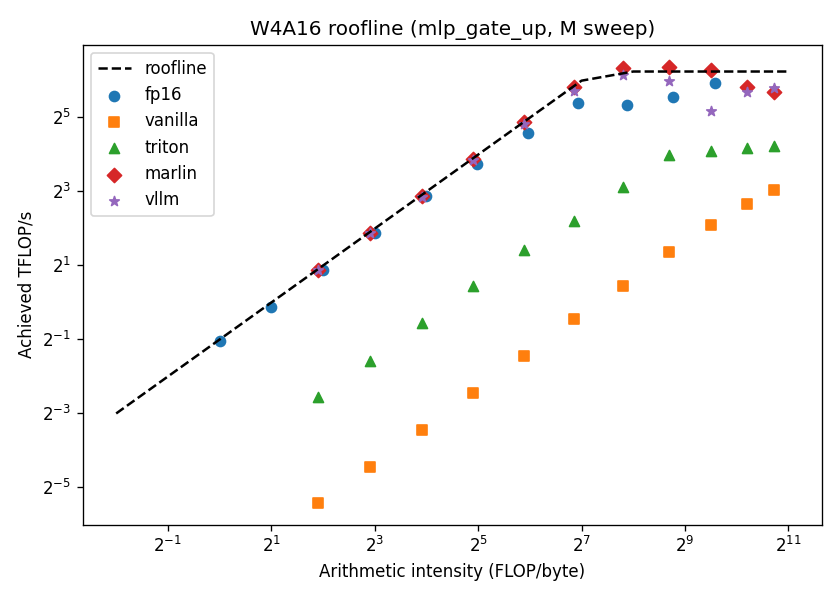
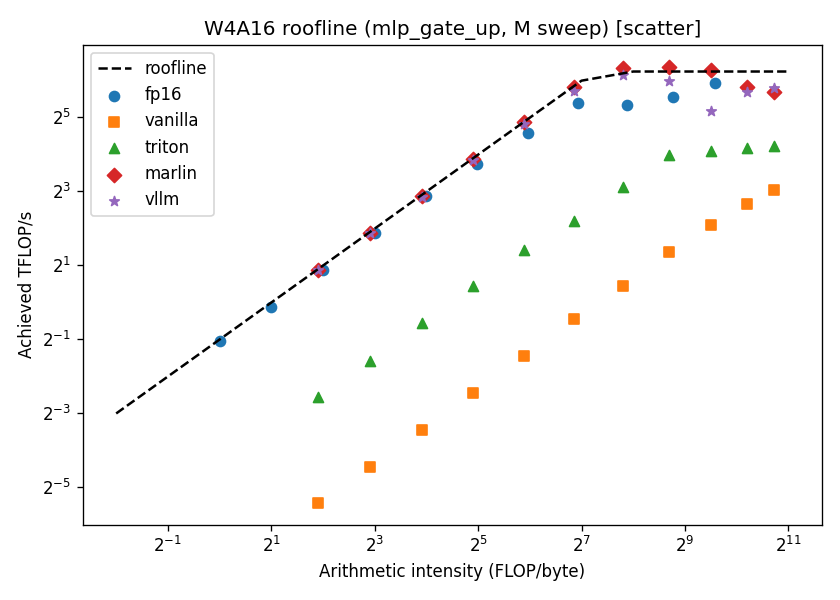
experiment 2 done

Changed region(s): [[0.2476, 0.03, 0.8357, 0.06]]

diff --git a/experiment4.py b/experiment4.py
@@ -11,13 +11,17 @@ import awq_impl
 import kernel
 
 parser = argparse.ArgumentParser()
-src = parser.add_mutually_exclusive_group(required=True)
+src = parser.add_mutually_exclusive_group(required=False)
 src.add_argument("--model", help="HF model id (its config sets the layer shapes).")
 src.add_argument("--weight_path", help="Quant checkpoint (.pt); its model_id sets the shapes.")
 parser.add_argument("--result_dir", default="results")
 parser.add_argument("--group_size", type=int, default=128)
 parser.add_argument("--m_sweep", default="1,2,4,8,16,32,64,128,256,512,1024")
 parser.add_argument("--plot", action="store_true", help="Emit roofline.png if matplotlib is available.")
+parser.add_argument("--plot_mode", choices=["scatter", "line"], default="scatter",
+                    help="scatter: one dot per M (default); line: connect M-sweep points, color per kernel.")
+parser.add_argument("--plot_only", action="store_true",
+                    help="Load existing exp4.json and plot without running the experiment.")
 args = parser.parse_args()
 
 os.makedirs(args.result_dir, exist_ok=True)
@@ -167,7 +171,7 @@ def ridge_crossing(roofline, peak_tflops, peak_bw):
     return {"ridge_intensity_flop_per_byte": ridge_intensity, "first_compute_bound_M": crossings}
 
 
-def plot_roofline(results, path):
+def plot_roofline(results, path, mode="scatter"):
     import matplotlib
     matplotlib.use("Agg")
     import matplotlib.pyplot as plt
@@ -178,16 +182,25 @@ def plot_roofline(results, path):
     xs = [2 ** i for i in range(-2, 12)]
     ax.plot(xs, [min(peak_tflops, peak_bw * x / 1e3) for x in xs], "k--", label="roofline")
     markers = {"fp16": "o", "vanilla": "s", "triton": "^", "marlin": "D", "vllm": "*"}
+    colors = {"fp16": "C0", "vanilla": "C1", "triton": "C2", "marlin": "C3", "vllm": "C4"}
     for kname in markers:
-        pts = [(r["intensity"], r["tflops"]) for r in results["gemm_roofline"]
-               if r["kernel"] == kname and r["shape"] == "mlp_gate_up"]
-        if pts:
-            ax.scatter(*zip(*pts), marker=markers[kname], label=kname)
+        pts = sorted(
+            [(r["intensity"], r["tflops"]) for r in results["gemm_roofline"]
+             if r["kernel"] == kname and r["shape"] == "mlp_gate_up"],
+            key=lambda p: p[0],
+        )
+        if not pts:
+            continue
+        xs_k, ys_k = zip(*pts)
+        if mode == "line":
+            ax.plot(xs_k, ys_k, marker="o", markersize=4, color=colors[kname], label=kname)
+        else:
+            ax.scatter(xs_k, ys_k, marker=markers[kname], color=colors[kname], label=kname)
     ax.set_xscale("log", base=2)
     ax.set_yscale("log", base=2)
     ax.set_xlabel("Arithmetic intensity (FLOP/byte)")
     ax.set_ylabel("Achieved TFLOP/s")
-    ax.set_title("W4A16 roofline (mlp_gate_up, M sweep)")
+    ax.set_title(f"W4A16 roofline (mlp_gate_up, M sweep) [{mode}]")
     ax.legend()
     fig.tight_layout()
     fig.savefig(path, dpi=120)
@@ -195,6 +208,18 @@ def plot_roofline(results, path):
 
 
 def main():
+    plot_path = os.path.join(args.result_dir, "roofline.png")
+
+    if args.plot_only:
+        in_path = os.path.join(args.result_dir, "exp4.json")
+        with open(in_path) as f:
+            results = json.load(f)
+        plot_roofline(results, plot_path, args.plot_mode)
+        return
+
+    if args.model is None and args.weight_path is None:
+        parser.error("--model or --weight_path is required unless --plot_only is set")
+
     model_id = args.model or torch.load(args.weight_path, map_location="cpu", weights_only=True)["model_id"]
     config = AutoConfig.from_pretrained(model_id)
     shapes = layer_shapes(config)
@@ -224,7 +249,7 @@ def main():
 
     if args.plot:
         try:
-            plot_roofline(results, os.path.join(args.result_dir, "roofline.png"))
+            plot_roofline(results, plot_path, args.plot_mode)
         except ImportError:
             print("matplotlib not available; skipping plot")
 

diff --git a/experiment2.py b/experiment2.py
@@ -17,6 +17,7 @@ parser.add_argument("--prompt_len", type=int, default=512)
 parser.add_argument("--decode_tokens", type=int, default=64)
 parser.add_argument("--batch_sweep", default="1,4,16,32")
 parser.add_argument("--skip_baseline", action="store_true", help="Skip the FP16 model (saves ~16GB).")
+parser.add_argument("--vllm_model", default=None, help="HF AWQ model id for vLLM reference ceiling (optional).")
 args = parser.parse_args()
 
 os.makedirs(args.result_dir, exist_ok=True)
@@ -64,6 +65,26 @@ def measure_prefill_decode(model, tokenizer, batch_size, prompt_len, decode_toke
         "decode_s_per_step": per_step_s,
         "decode_tok_per_s": batch_size / per_step_s,
     }
+
+
+def measure_vllm_decode(vllm_model, batch_sizes, decode_tokens):
+    from vllm import LLM, SamplingParams
+    llm = LLM(model=vllm_model, quantization="awq_marlin", dtype="float16", gpu_memory_utilization=0.9)
+    params = SamplingParams(temperature=0, max_tokens=decode_tokens)
+    rows = []
+    for bs in batch_sizes:
+        prompts = ["The quick brown fox jumps over the lazy dog."] * bs
+        llm.generate(prompts, params)  # warmup
+        torch.cuda.synchronize()
+        t0 = time.perf_counter()
+        outputs = llm.generate(prompts, params)
+        torch.cuda.synchronize()
+        elapsed = time.perf_counter() - t0
+        n_tokens = sum(len(o.outputs[0].token_ids) for o in outputs)
+        tok_per_s = n_tokens / elapsed
+        rows.append({"batch_size": bs, "decode_tok_per_s": tok_per_s})
+        print(f"  [vllm] bs={bs:>3} decode={tok_per_s:.1f} tok/s")
+    return rows
 
 
 def _top_ops(prof, k=12):
@@ -129,6 +150,16 @@ def main():
         torch.cuda.empty_cache()
         gc.collect()
     results["e2e"] = e2e
+
+    if args.vllm_model:
+        print("\n== vLLM reference ceiling ==\n")
+        try:
+            results["vllm_reference"] = {
+                "model": args.vllm_model,
+                "by_batch": measure_vllm_decode(args.vllm_model, batch_sweep, args.decode_tokens),
+            }
+        except Exception as e:
+            print(f"  vLLM measurement failed: {e}")
 
     out_path = os.path.join(args.result_dir, "exp2.json")
     with open(out_path, "w") as f:
